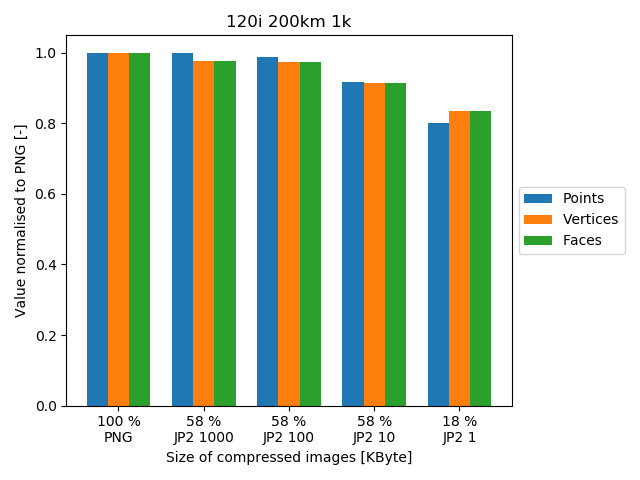
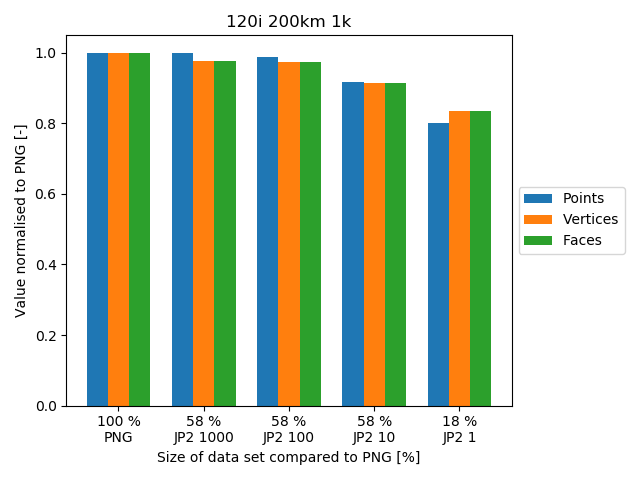
Update recon stats

Changed region(s): [[0.25, 0.9375, 0.6562, 0.9688]]

diff --git a/doc/thesis/0_figures/recon/plot.py b/doc/thesis/0_figures/recon/plot.py
@@ -31,7 +31,7 @@ def main(file_name):
 	rects2 = ax.bar(x + width, faces, width, label='Faces')
 	
 	ax.set_ylabel('Value normalised to PNG [-]')
-	ax.set_xlabel('Size of compressed images [KByte]')
+	ax.set_xlabel('Size of data set compared to PNG [%]')
 	ax.set_title(file_name[:-4].replace("_", " "))
 	ax.set_xticks(x)
 	ax.set_xticklabels(label_size_p)
@@ -40,13 +40,34 @@ def main(file_name):
 	fig.tight_layout()
 	plt.savefig(file_name[:-4] + ".png")
 	#plt.show()
+	
+def heatmap():
+	data_1k = [["Seq1", "Seq2", "Seq2", "Seq2"],
+			   ["Seq1", "Seq1", "Seq2", "Seq2"],
+			   ["Seq1", "Seq1", "Seq2", "Seq2"],
+			   ["Seq1", "Seq1", "Seq2", "Seq2"],
+			   ["Seq1", "Seq2", "Seq2", "-"]]
+	data_10k = [["Seq2", "-", "Seq2", "Seq1"],
+				["Seq2", "-", "Seq2", "Glob"],
+				["Seq2", "-", "Seq2", "Seq2"],
+				["Seq2", "-", "Seq2", "Seq2"],
+				["Seq2", "-", "Seq2", "Seq1"]]
+				
+	labels = ["PNG", "JP2 1000", "JP2 100", "JP2 10", "JP2 1"]
+	dists = ["50", "100", "200", "400"]
+	
+	fig, ax = plt.subplots()
+	im = ax.imshow(data_1k)
+				
+	
 			
 if __name__ == "__main__":
 	if len(sys.argv) > 1:
 		main(sys.argv[1])
 	else:
+		#heatmap()
 		for elem in ["120i_50km_1k.csv", "120i_50km_10k.csv",
-					 "120i_100km_1k.csv",
+					 "120i_100km_1k.csv", "120i_100km_10k.csv",
 					 "120i_200km_1k.csv", "120i_200km_10k.csv",
 					 "120i_400km_1k.csv", "120i_400km_10k.csv"]:
 			main(elem)
